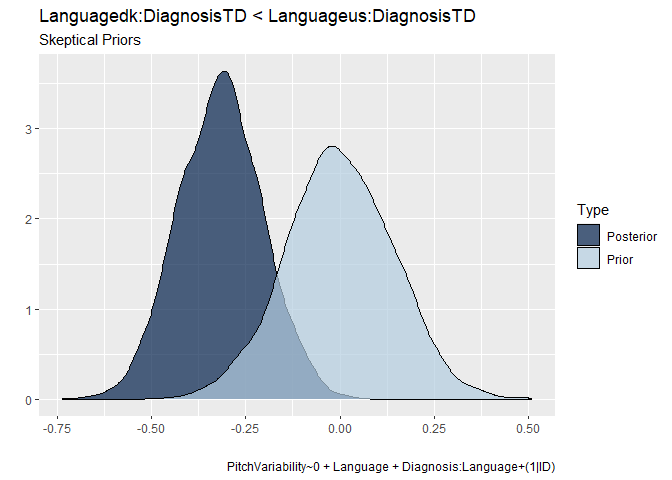
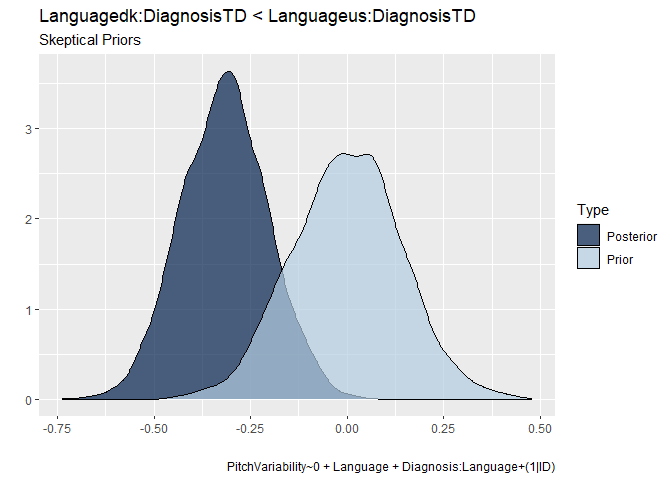
finally learned how to add titles to conditional effects!!!!!

diff --git a/Assignment4.md b/Assignment4.md
@@ -596,10 +596,22 @@ summary(newStudies_m1)
     ## scale reduction factor on split chains (at convergence, Rhat = 1).
 
 ``` r
-conditional_effects(newStudies_m1)
+condEff <- plot(conditional_effects(newStudies_m1),plot = F)
+
+condEff[[1]] + labs(title =  "Effect of Language",
+                    subtitle = "Skeptical Priors",
+                    caption = "PitchVariability~0 + Language + Diagnosis:Language+(1|ID)")
 ```
 
-![](Assignment4_files/figure-gfm/MEGA-ANALYSIS%20pt%202!!!-10.png)<!-- -->![](Assignment4_files/figure-gfm/MEGA-ANALYSIS%20pt%202!!!-11.png)<!-- -->
+![](Assignment4_files/figure-gfm/MEGA-ANALYSIS%20pt%202!!!-10.png)<!-- -->
+
+``` r
+condEff[[2]] + labs(title =  "Effect of Language:Diagnosis",
+                    subtitle = "Skeptical Priors",
+                    caption = "PitchVariability~0 + Language + Diagnosis:Language+(1|ID)")
+```
+
+![](Assignment4_files/figure-gfm/MEGA-ANALYSIS%20pt%202!!!-11.png)<!-- -->
 
 ``` r
 newStudies_m0 <- add_criterion(newStudies_m0, criterion = "loo")
